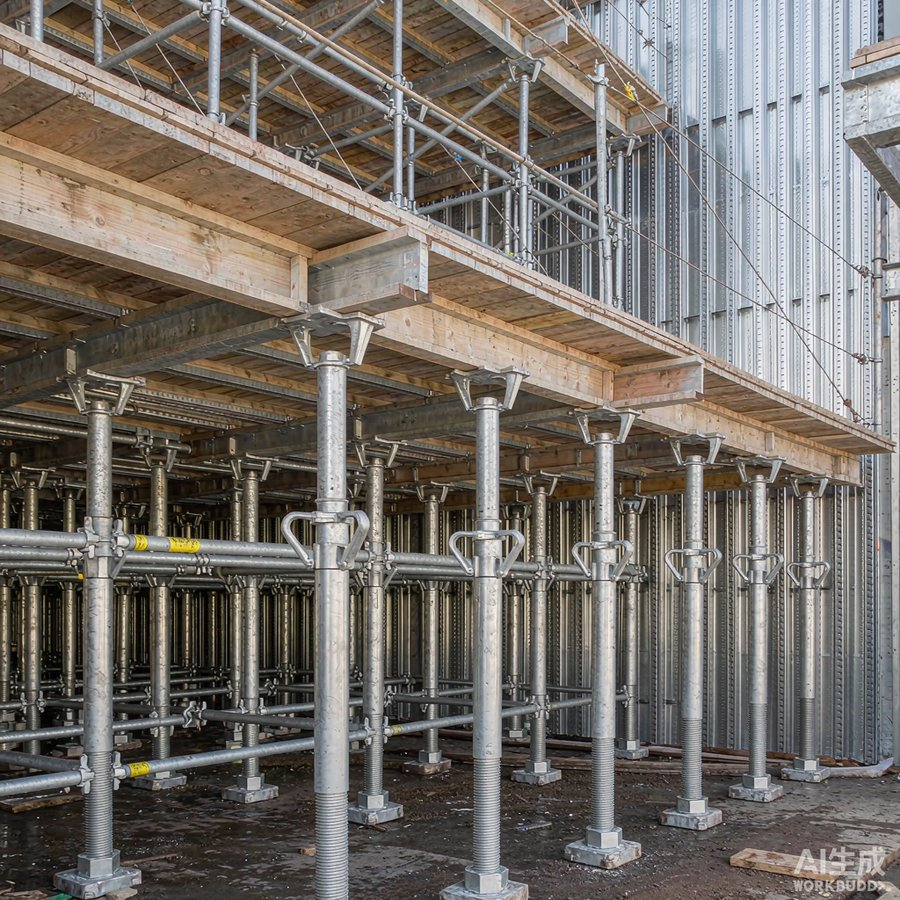
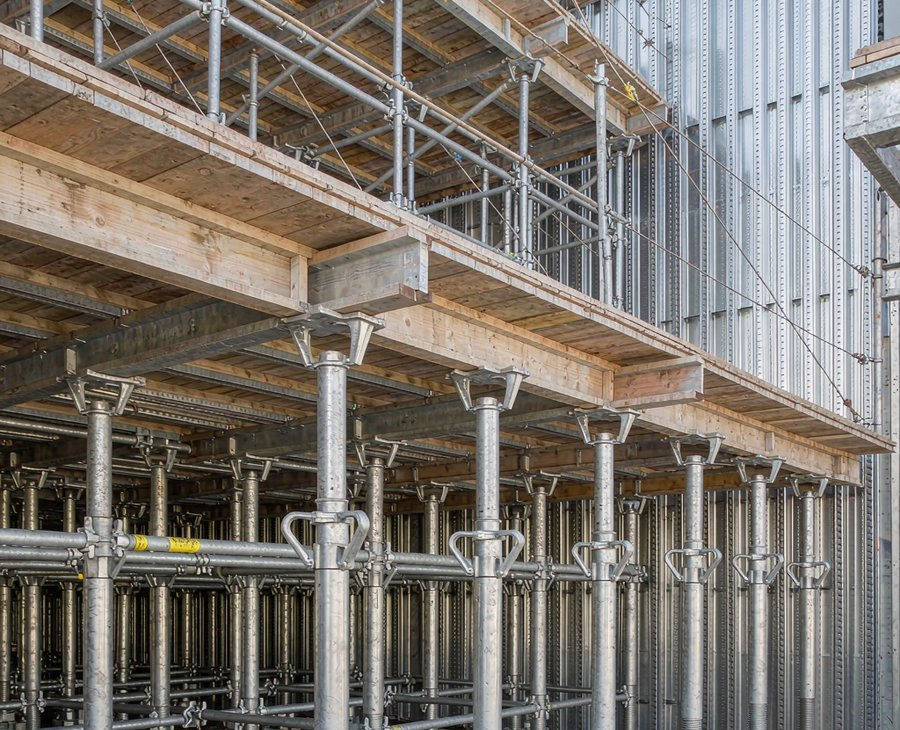
Fix product-01 photo, remove AI watermarks from prop/scaffold images, align scaffold photos with description
- Replaced product-01 (Steel Wire Rod) photos with real wire rod coils instead of hot-rolled steel coils
- Cropped AI watermarks from product-14-detail.jpg and product-14-site.jpg (steel prop support)
- Replaced product-13-detail.jpg (was ringlock connection) with door-frame detail cropped from product-13.jpg
- Replaced product-13-site.jpg (had AI watermark) with door-frame base detail to match frame scaffolding description
- Updated alt text in product-13.html and frame-scaffolding/index.html

diff --git a/product-13.html b/product-13.html
@@ -65,7 +65,7 @@
         <img class="thumb active" src="images/product-13.jpg" data-full="images/product-13.jpg" alt="Frame scaffolding unit" onclick="changeImg(this, 'mainImg13')">
         <img class="thumb" src="images/product-13-detail.jpg" data-full="images/product-13-detail.jpg" alt="Connection detail" onclick="changeImg(this, 'mainImg13')">
         <img class="thumb" src="images/product-13-config.jpg" data-full="images/product-13-config.jpg" alt="Configuration drawing" onclick="changeImg(this, 'mainImg13')">
-        <img class="thumb" src="images/product-13-site.jpg" data-full="images/product-13-site.jpg" alt="Site application" onclick="changeImg(this, 'mainImg13')">
+        <img class="thumb" src="images/product-13-site.jpg" data-full="images/product-13-site.jpg" alt="Frame base and dimensions" onclick="changeImg(this, 'mainImg13')">
       </div>
       <div class="pd-cta">
         <a href="https://wa.me/8618954492649" class="btn btn-primary btn-block" target="_blank" rel="noopener" data-i18n="pdChatWhatsApp">Chat on WhatsApp</a>

diff --git a/frame-scaffolding/index.html b/frame-scaffolding/index.html
@@ -71,7 +71,7 @@ fbq('track', 'PageView');
     <div class="lp-gallery">
       <img src="../images/product-13.jpg" alt="Hot Dipped Galvanized Frame Scaffolding">
       <img src="../images/product-13-detail.jpg" alt="Hot Dipped Galvanized Frame Scaffolding detail">
-      <img src="../images/product-13-site.jpg" alt="Hot Dipped Galvanized Frame Scaffolding loading">
+      <img src="../images/product-13-site.jpg" alt="Hot Dipped Galvanized Frame Scaffolding frame base and dimensions">
     </div>
   </div>
 </section>
